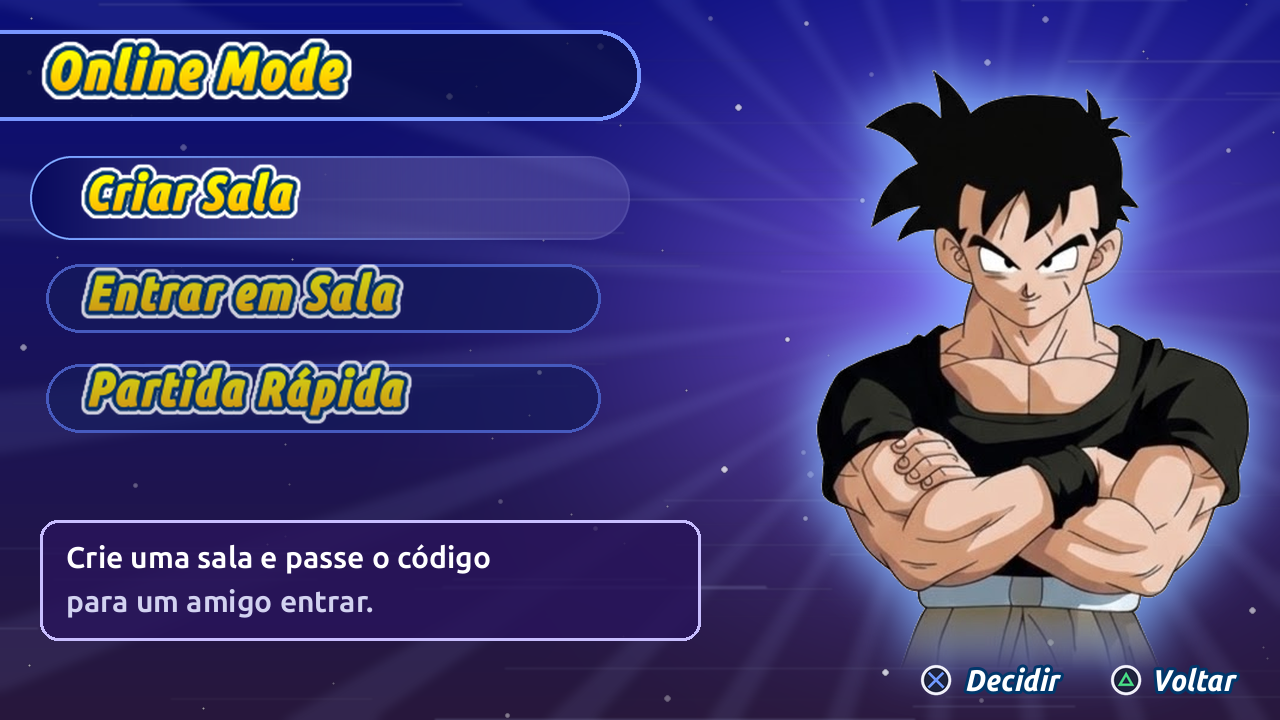
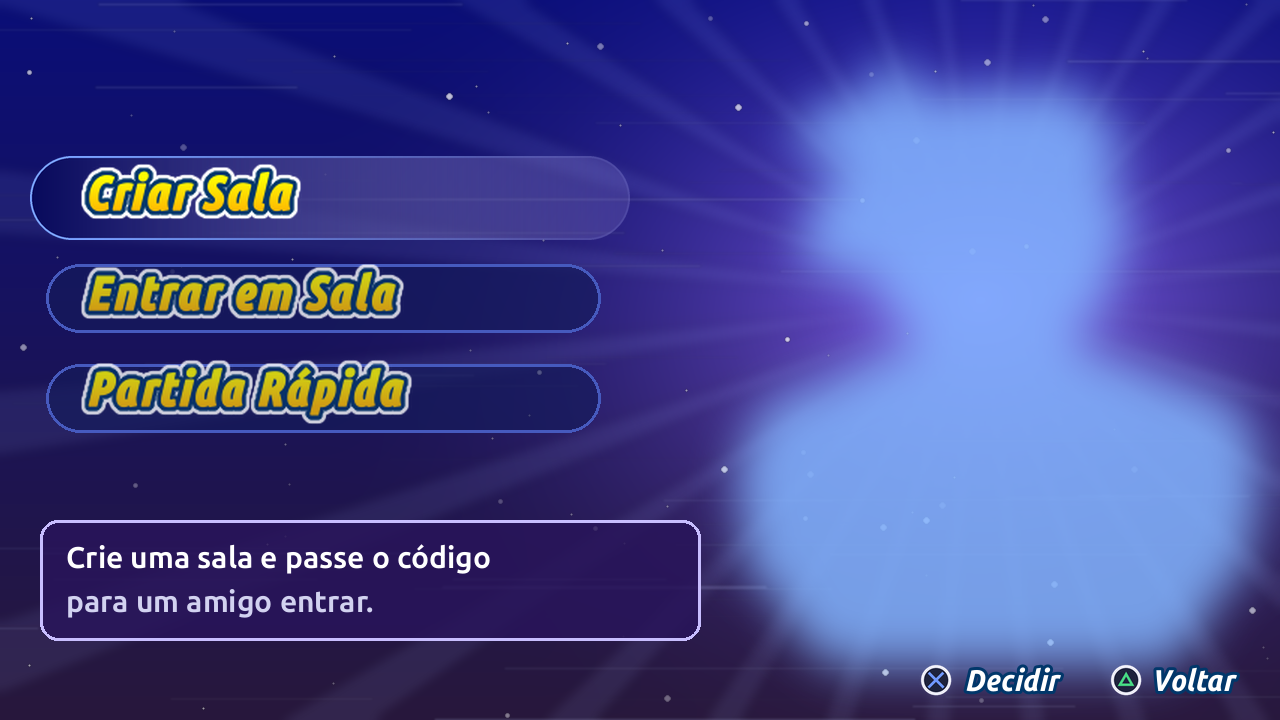
BT2 online: título que flutua, Gohan em vídeo em loop, 16 ganchos e retorno ao Modo Online
- O título "Online Mode" é uma imagem própria que o jogo desenha flutuando (title.png).
- O Gohan das telas virou um vídeo em loop: make_fighter_video.py recorta os quadros do clipe
  (GStreamer, sem som) em gohan_NN.png (61 quadros de 502 x 600, 2,4 MB em tudo) e a
  biblioteca toca o quadro do momento; as telas ficam só com o brilho atrás.
- Duelo com partida online: a 1P VS 2P acesa e as outras três apagadas pelo próprio jogo
  (a chamada de brilho do menu é interceptada); a saída do menu de Duelo faz o que o △ faz por
  dentro, então o retorno ao Modo Online é imediato depois da mensagem preta.
- O motor passa de 8 para 16 ganchos (um motor antigo ignora os extras).
- Pasta "extra" do usuário para testar imagens sem refazer o APK; gatilhos de desenvolvimento.

Claude-Session: https://claude.ai/code/session_014s1e4MkJ4JzWMAZ4AVsoPw

diff --git a/bt2/plugin/online/online_plugin.cpp b/bt2/plugin/online/online_plugin.cpp
@@ -8,6 +8,8 @@
 #include <cstring>
 #include <algorithm>
 #include <filesystem>
+#include <chrono>
+#include <cmath>
 #include <fstream>
 #include <sstream>
 #include <functional>
@@ -79,7 +81,7 @@ void returnTo(Guest& g,std::uint32_t ra) {
     H->ret(g.runtime,g.c,ra,g.self);
 }
 
-constexpr int slot_init=0,slot_menu_mode=1,slot_guides=2,slot_moved=3,slot_pad=4,slot_draw=5,slot_frame_pad=6,slot_pad_connected=7; // (the engine's names for what it replaced)
+constexpr int slot_init=0,slot_menu_mode=1,slot_guides=2,slot_moved=3,slot_pad=4,slot_draw=5,slot_frame_pad=6,slot_pad_connected=7,slot_brightness=8,slot_duel_pad=9; // (the engine's names for what it replaced)
 std::uint32_t plate_entry=0; // the texture entry of the third sheet of plates, given 256 lines
 
 // The third sheet of plates (512 x 128: items 8 and 9) is drawn as 512 x 256, so a third row (lines 128 to 191)
@@ -222,6 +224,7 @@ constexpr std::uint32_t duel_mode=30;
 // the answer is "there" (padConnected), and the three other entries are dimmed over the frame (pluginOverlay).
 constexpr std::uint32_t duel_state_pointer=0x42BB84,duel_moved=0x41B648,pad_connected=0x28C4B8;
 std::atomic<bool> dim_others{false};
+constexpr std::uint32_t brightness=0x26EF88; // (layer, parameters, f12 = the entry's brightness: the draw of Dueling's menu gives 1.0, or 0.4 to a dimmed "1P VS 2P")
 std::uint32_t modeToTry() {
     std::ifstream in(onlinePath("online_mode_test"),std::ios::binary);
     int n=0;
@@ -356,8 +359,8 @@ void leaveSession(bool opponent_gone) {
     if(!session)return;
     if(!opponent_gone)link.sayBye();
     link.close();
-    session=false;duel_lock=false;
-    if(opponent_gone)left_cover.store(200);
+    session=false;duel_lock=false;dim_others.store(false);
+    if(opponent_gone)left_cover.store(900); // (kept until the Online screen is open again, 15 seconds at most)
     returning=true;return_frames=0;screen_next=true;
     std::fprintf(stderr,"Online Mode: the match ends (%s)\n",opponent_gone?"the opponent left or was lost":"the player left");
 }
@@ -428,10 +431,6 @@ void framePad(std::uint8_t* rdram,R5900Context* c,PS2Runtime* runtime) {
     if(returning) { // triangle every twenty fields until the game is at the main menu's mode (where the Online screen opens: screen_next)
         if(mode==main_menu_mode || return_frames>900)returning=false;
         else {
-            if(return_frames%20==10) {
-                write32(rdram,pad+0x144,read32(rdram,pad+0x144)|0x1000);
-                write32(rdram,pad+0x134,read32(rdram,pad+0x134)|0x1000);
-            }
             ++return_frames;
         }
     }
@@ -454,6 +453,42 @@ void padConnected(std::uint8_t* rdram,R5900Context* c,PS2Runtime* runtime) {
         return;
     }
     H->call_original(runtime,c,slot_pad_connected);
+}
+
+// Dueling's menu draws its four entries one after the other, each with a call giving its brightness: while an opponent is connected the game itself is
+// told to dim the three that are not open, as it dims "1P VS 2P" when there is no second controller.
+void brightnessHook(std::uint8_t* rdram,R5900Context* c,PS2Runtime* runtime) {
+    static unsigned entry=0;
+    const std::uint32_t ra=static_cast<std::uint32_t>(c->r[31].low);
+    static unsigned logged=0;
+    if(logged<16 && dim_others.load() && ra>=0x41A988 && ra<0x41BF08) {++logged;std::fprintf(stderr,"Online Mode: brightness from 0x%X, %.2f (entry counter %u)\n",ra,double(c->f[12]),0u);}
+    if(ra>=0x41B300 && ra<0x41B340) { // (from the entries' loop of the menu's draw)
+        const unsigned which=entry++&3;
+        if(dim_others.load(std::memory_order_relaxed) && which!=1)c->f[12]=0.02f; // (the other three are not shown: a brightness of nothing)
+    }
+    H->call_original(runtime,c,slot_brightness);
+}
+
+// Dueling's menu, while the game is being taken back to the Online screen: what its triangle does inside (the fade out, and the "going on" word
+// its caller passes set to zero), done once the menu's layers are still, instead of pressing the button.
+constexpr std::uint32_t duel_pad=0x41B7D8,layer_still_check=0x26EB60;
+void duelPad(std::uint8_t* rdram,R5900Context* c,PS2Runtime* runtime) {
+    const std::uint32_t ra=static_cast<std::uint32_t>(c->r[31].low),going_on=static_cast<std::uint32_t>(c->r[4].low);
+    const std::uint32_t state=read32(rdram,duel_state_pointer);
+    if(returning && !session && going_on && state>0x100000 && state<0x1FFFF00) {
+        Guest g{rdram,c,runtime,duel_pad};
+        if(g.call(layer_still_check,{state+0x38})) {
+            g.call(leave_fade,{0,0,0});
+            write32(rdram,going_on,0);
+            g.call(sound,{0,2,0x40,0x40,1});
+            returning=false;
+            std::fprintf(stderr,"Online Mode: out of Dueling's menu, back to the Online screen\n");
+            returnTo(g,ra);
+            return;
+        }
+        setRegister(c,31,ra);
+    }
+    H->call_original(runtime,c,slot_duel_pad);
 }
 
 void menuMode(std::uint8_t* rdram,R5900Context* c,PS2Runtime* runtime) {
@@ -579,11 +614,20 @@ void drawMenu(std::uint8_t* rdram,R5900Context* c,PS2Runtime* runtime) {
 // the menu's description of the item. The plate itself is the game's own Dueling plate, made into this one while the menu
 // is set up (buildPlate), so no picture of the game's is kept anywhere. The two sheets they go into are known by the
 // FNV-1a hash of their first 128 lines as the renderer decodes them (the USA disc's).
-enum Slot {online_picture,ranked_picture,soon_picture,description_picture,create_picture,join_picture,quick_picture,wait_picture,left_picture,shade_picture,pictures};
+enum Slot {online_picture,ranked_picture,soon_picture,description_picture,create_picture,join_picture,quick_picture,wait_picture,left_picture,shade_picture,title_picture,gohan_picture,pictures};
 struct Picture {std::uint32_t w=0,h=0;std::vector<std::uint8_t> rgba;};
 std::array<Picture,pictures> picture;
-constexpr std::array<const char*,pictures> picture_names{"online","ranked","soon","description","rooms_create","rooms_join","rooms_quick","wait","left","shade"};
+constexpr std::array<const char*,pictures> picture_names{"online","ranked","soon","description","rooms_create","rooms_join","rooms_quick","wait","left","shade","title","gohan_00"};
 Picture name_picture,plate_word;
+// The fighter of the Online screens is a looping clip: gohan_00.png, gohan_01.png ... in the pictures' folder and gohan.txt ("frames fps width height",
+// make_fighter_video.py). Its slot is drawn like the others, but its pixels are the frame of the moment, read from its file when asked for.
+struct Clip {std::uint32_t frames=0,fps=12,w=0,h=0;std::string folder;} clip;
+std::atomic<std::uint32_t> clip_frame{0};
+std::uint32_t clipNow() {
+    if(!clip.frames)return 0;
+    const auto ms=std::chrono::duration_cast<std::chrono::milliseconds>(std::chrono::steady_clock::now().time_since_epoch()).count();
+    return static_cast<std::uint32_t>((ms*clip.fps/1000)%clip.frames);
+}
 std::vector<std::uint8_t> plate_row; // the plate: 512 x 64 RGBA
 constexpr std::uint64_t names_sheet_hash=0x838260d6bb66161aull,plates_sheet_hash=0x9cb5f2297eb6c82eull;
 std::atomic<bool> art_ready{false},plate_ready{false};
@@ -667,6 +711,17 @@ void buildPlate(std::uint8_t* rdram,std::uint32_t entry) {
 }
 
 static std::uint32_t* pluginPixels(std::uint32_t slot,std::uint32_t* version,std::uint32_t* w,std::uint32_t* h) {
+    if(slot==gohan_picture && clip.frames) { // the clip's frame of this moment
+        const std::uint32_t frame=clip_frame.load(std::memory_order_relaxed);
+        char name[32];std::snprintf(name,sizeof name,"/gohan_%02u.png",frame);
+        const Picture p=loadPicture(clip.folder+name);
+        if(p.rgba.empty())return nullptr;
+        auto* px=static_cast<std::uint32_t*>(std::malloc(p.rgba.size()));
+        if(!px)return nullptr;
+        std::memcpy(px,p.rgba.data(),p.rgba.size());
+        *version=1+frame;*w=p.w;*h=p.h;
+        return px;
+    }
     if(slot>=pictures || picture[slot].rgba.empty())return nullptr;
     auto* px=static_cast<std::uint32_t*>(std::malloc(picture[slot].rgba.size()));
     if(!px)return nullptr;
@@ -676,7 +731,10 @@ static std::uint32_t* pluginPixels(std::uint32_t slot,std::uint32_t* version,std
 }
 // Which page of the Online Mode screen is open (0 none), for the app's pieces over the game (android_main.cpp: the engine's counts).
 static int pluginOnlineState() {return online_state.load(std::memory_order_relaxed);}
-static std::uint32_t pluginVersion(std::uint32_t slot) {return slot<pictures && !picture[slot].rgba.empty()?1:0;}
+static std::uint32_t pluginVersion(std::uint32_t slot) {
+    if(slot==gohan_picture && clip.frames)return 1+clip_frame.load(std::memory_order_relaxed);
+    return slot<pictures && !picture[slot].rgba.empty()?1:0;
+}
 
 // At each flip, over the frame the game drew: the screen when it is open, else the item's description while the menu
 // shows it. Positions in the frame's own pixels (the game's 640 x 448).
@@ -698,6 +756,16 @@ static void pluginOverlay(std::uint64_t dispfb,std::uint64_t display) {
     };
     if(screen.open) {
         draw(screen.wait?wait_picture:screen.page?Slot(create_picture+screen.choice):screen.choice?ranked_picture:online_picture,0,0,float(width),float(height),screen.fade);
+        if(clip.frames) { // the fighter, where the still one stood (1280 x 720 screen: 30 from the right, 50 above the bottom)
+            clip_frame.store(clipNow(),std::memory_order_relaxed);
+            const float x0=(1280.0f-float(clip.w)-30.0f)/1280.0f*float(width),y0=(720.0f-float(clip.h)-50.0f)/720.0f*float(height);
+            H->overlay_sprite(fbp,fbw,psm,width,height,gohan_picture,x0,y0,x0+float(clip.w)/1280.0f*float(width),y0+float(clip.h)/720.0f*float(height),screen.fade);
+            if(shown!=fbp)H->overlay_sprite(shown,fbw,psm,width,height,gohan_picture,x0,y0,x0+float(clip.w)/1280.0f*float(width),y0+float(clip.h)/720.0f*float(height),screen.fade);
+        }
+        {   // the title floats: up and down a few pixels, slowly (it is drawn apart from the background, at (0, 20) of the 1280 x 720 screen)
+            const float bob=std::sin(float(flip)*0.05f)*7.0f/720.0f*float(height);
+            draw(title_picture,0,20.0f/720.0f*float(height)+bob,700.0f/1280.0f*float(width),140.0f/720.0f*float(height)+bob,screen.fade);
+        }
         if(screen.soon) {
             // (a pixel of the frame is shown wider than tall with the widescreen patch: the picture keeps its shape)
             static const bool wide=[]{const char* p=std::getenv("BT2_GAME_PATCHES");return p && std::strstr(p,"widescreen");}();
@@ -713,10 +781,7 @@ static void pluginOverlay(std::uint64_t dispfb,std::uint64_t display) {
         else if(cover_menu_seen.load())cover.store(0);
         if(cover.load()>0) {cover.fetch_sub(1);draw(wait_picture,0,0,float(width),float(height),128);}
     }
-    if(dim_others.load(std::memory_order_relaxed)) { // the three other entries of Dueling's menu dimmed (the rows are where the menu draws them: measured on the frame)
-        const float rows[3]={0.217f,0.398f,0.48f};
-        for(const float y:rows)draw(shade_picture,0.03f*float(width),(y-0.04f)*float(height),0.60f*float(width),(y+0.04f)*float(height),78);
-    }
+    if(screen.open && left_cover.load()>0 && left_cover.load()<=720)left_cover.store(0); // (the Online screen is back, and the message has been up three seconds: it goes)
     if(left_cover.load()>0) {left_cover.fetch_sub(1);draw(left_picture,0,0,float(width),float(height),128);} // (the opponent left: black, with the message)
 }
 
@@ -748,10 +813,16 @@ extern "C" __attribute__((visibility("default"))) const Bt2Plugin* bt2_plugin_in
     const std::string folder=host->pictures_dir;
     name_picture=loadPicture(folder+"/item_text.png");
     plate_word=loadPicture(folder+"/plate_text.png");
+    for(const std::string& dir:{std::string(H->online_dir?H->online_dir:"")+"/extra",folder}) { // the clip: its folder is where gohan.txt is
+        std::ifstream info(dir+"/gohan.txt");
+        std::uint32_t frames=0,fps=0,w=0,h=0;
+        if(info && (info>>frames>>fps>>w>>h) && frames && fps && w && h) {clip={frames,fps,w,h,dir};break;}
+    }
     for(std::size_t k=0;k<pictures;++k) {
-        picture[k]=loadPicture(folder+"/"+picture_names[k]+".png");
-        // (a picture not in the APK yet: the folder "extra" of the user folder, which the app leaves alone, for tries)
-        if(picture[k].rgba.empty())picture[k]=loadPicture(std::string(H->online_dir?H->online_dir:"")+"/extra/"+picture_names[k]+".png");
+        if(k==gohan_picture)continue;
+        // (for tries, a picture in the folder "extra" of the user folder, which the app leaves alone, goes before the APK's)
+        picture[k]=loadPicture(std::string(H->online_dir?H->online_dir:"")+"/extra/"+picture_names[k]+".png");
+        if(picture[k].rgba.empty())picture[k]=loadPicture(folder+"/"+picture_names[k]+".png");
     }
     if(name_picture.w!=512 || name_picture.h!=64 || plate_word.w!=512 || plate_word.h!=64) {
         std::fprintf(stderr,"Main menu item: no pictures in %s, the menu stays the game's\n",folder.c_str());
@@ -766,6 +837,8 @@ extern "C" __attribute__((visibility("default"))) const Bt2Plugin* bt2_plugin_in
     H->hook(menu_mode,menuMode,slot_menu_mode);
     H->hook(frame_pad,framePad,slot_frame_pad);
     H->hook(pad_connected,padConnected,slot_pad_connected);
+    H->hook(brightness,brightnessHook,slot_brightness);
+    H->hook(duel_pad,duelPad,slot_duel_pad);
     disc_image=host->disc_image;
     H->set_music_mix(pluginMix);
     std::fprintf(stderr,"Main menu item: Online Mode, the main menu's eleventh item\n");

diff --git a/bt2/tools/menu_item/make_fighter_video.py b/bt2/tools/menu_item/make_fighter_video.py
@@ -1,0 +1,101 @@
+#!/usr/bin/env python3
+"""The fighter of the Online Mode screens as a looping video: a clip of a figure on a white background becomes a row of cut-out pictures.
+
+    python3 bt2/tools/menu_item/make_fighter_video.py <clip.mp4> [--out <folder>] [--fps 12]
+
+Needs GStreamer (gst-launch-1.0 with the usual decoders) to read the clip; its sound is not used. Writes into the screens' folder
+(default android/app/src/main/assets/bt2/menu-item): gohan_00.png, gohan_01.png, ... (the figure from the top down to the belt, a soft end,
+the white background and anything else that is not the figure taken out, 8-bit palette so a frame is a few tens of KB) and gohan.txt
+("frames fps width height", the numbers the game reads), and bust.png (the first frame, for make_menu_item.py --bust --animated, which
+draws the screens' glow behind it but not the figure: the game draws the frames over them).
+"""
+import argparse
+import pathlib
+import subprocess
+import sys
+import tempfile
+
+import numpy as np
+from PIL import Image
+from scipy import ndimage
+
+ROOT = pathlib.Path(__file__).resolve().parents[3]
+HEIGHT = 600            # the figure's height in the 1280 x 720 screen (the same as the still picture had)
+BELT = 0.66             # where the figure ends, as a part of the clip's height (the belt); a soft end of FADE rows follows up to it
+FADE = 28
+
+
+def decode(clip, fps, folder):
+    """The clip's frames as PNG at `fps`, scaled so the figure down to the belt is about HEIGHT tall."""
+    probe = subprocess.run(["gst-discoverer-1.0", str(clip)], capture_output=True, text=True).stdout
+    width = height = 0
+    for line in probe.splitlines():
+        line = line.strip()
+        if line.startswith("Width:"): width = int(line.split()[1])
+        if line.startswith("Height:"): height = int(line.split()[1])
+    if not width or not height:
+        sys.exit("cannot read the clip's size (is GStreamer installed?)")
+    scale = HEIGHT / (height * BELT)
+    w, h = int(width * scale) // 2 * 2, int(height * scale) // 2 * 2
+    subprocess.run(["gst-launch-1.0", "-q", "filesrc", f"location={clip}", "!", "decodebin", "!", "videoconvert", "!", "videorate", "!",
+                    f"video/x-raw,framerate={fps}/1", "!", "videoscale", "!", f"video/x-raw,width={w},height={h}", "!", "pngenc", "!",
+                    "multifilesink", f"location={folder}/f_%03d.png"], check=True)
+    return sorted(folder.glob("f_*.png"))
+
+
+def cut(path):
+    """The figure of one frame as RGBA: the white that touches the border is the background, the largest piece left is the figure
+    (so the marks in the corners go with the background); the edge is soft; the figure ends at the belt with a soft end."""
+    a = np.asarray(Image.open(path).convert("RGB")).astype(np.int32)
+    h, w = a.shape[:2]
+    white = (a > 225).all(axis=2)
+    lab, _ = ndimage.label(white)
+    border = np.unique(np.concatenate([lab[0], lab[-1], lab[:, 0], lab[:, -1]]))
+    bg = np.isin(lab, border[border > 0])
+    fg = ~bg
+    flab, n = ndimage.label(fg)
+    sizes = ndimage.sum(fg, flab, range(1, n + 1))
+    main = flab == (1 + int(np.argmax(sizes)))
+    edge = ndimage.binary_dilation(bg, iterations=1) & main
+    soft = np.clip((255 - a.min(axis=2)) * 2.2, 0, 255)
+    alpha = np.where(main, 255, 0)
+    alpha = np.where(edge, soft, alpha).astype(np.uint8)
+    belt = int(h * BELT)
+    alpha[belt:] = 0
+    for y in range(belt - FADE, belt):
+        alpha[y] = (alpha[y] * ((belt - y) / FADE)).astype(np.uint8)
+    return Image.fromarray(np.dstack([a.astype(np.uint8), alpha]), "RGBA").crop((0, 0, w, belt))
+
+
+def main():
+    ap = argparse.ArgumentParser(description=__doc__, formatter_class=argparse.RawDescriptionHelpFormatter)
+    ap.add_argument("clip", type=pathlib.Path)
+    ap.add_argument("--out", type=pathlib.Path, default=ROOT / "android/app/src/main/assets/bt2/menu-item")
+    ap.add_argument("--fps", type=int, default=12)
+    args = ap.parse_args()
+    args.out.mkdir(parents=True, exist_ok=True)
+    with tempfile.TemporaryDirectory() as tmp:
+        frames = [cut(p) for p in decode(args.clip, args.fps, pathlib.Path(tmp))]
+    # one box for all the frames, so the figure does not jump from frame to frame
+    box = None
+    for f in frames:
+        b = f.getchannel("A").point(lambda v: 255 if v > 8 else 0).getbbox()
+        box = b if box is None else (min(box[0], b[0]), min(box[1], b[1]), max(box[2], b[2]), max(box[3], b[3]))
+    frames = [f.crop(box) for f in frames]
+    sw = round(frames[0].width * HEIGHT / frames[0].height)
+    frames = [f.resize((sw, HEIGHT), Image.LANCZOS) for f in frames]
+    for old in args.out.glob("gohan_*.png"):
+        old.unlink()
+    total = 0
+    for i, f in enumerate(frames):
+        small = f.quantize(colors=160, method=Image.Quantize.FASTOCTREE, dither=Image.Dither.NONE)
+        path = args.out / f"gohan_{i:02d}.png"
+        small.save(path, optimize=True)
+        total += path.stat().st_size
+    (args.out / "gohan.txt").write_text(f"{len(frames)} {args.fps} {sw} {HEIGHT}\n")
+    frames[0].save(args.out.parent.parent / "bust_video.png") if False else frames[0].save(args.out / "bust.png")
+    print(f"{len(frames)} frames of {sw} x {HEIGHT}, {total // 1024} KB in all")
+
+
+if __name__ == "__main__":
+    main()

diff --git a/bt2/tools/menu_item/make_menu_item.py b/bt2/tools/menu_item/make_menu_item.py
@@ -194,15 +194,19 @@ def background(title):
         x, y, r = random.randint(0, W), random.randint(0, H), random.choice((1, 1, 2, 3))
         sd.ellipse([x - r, y - r, x + r, y + r], fill=(255, 255, 255, random.randint(60, 200)))
     bg.alpha_composite(sp.filter(ImageFilter.GaussianBlur(0.6)))
-    band = Image.new("RGBA", (W, H), (0, 0, 0, 0))
-    ImageDraw.Draw(band).rounded_rectangle([-40, 30, 640, 120], radius=44, fill=(10, 14, 70, 200), outline=(120, 150, 255, 255), width=4)
-    bg.alpha_composite(band)
+    return bg  # (the title band is its own picture, title_sprite: the game moves it)
+
+
+def title_sprite(title):
+    """The band with the screen's title, on its own (transparent around it), 700 x 120, to be drawn at (0, 20) of the 1280 x 720 screen and made to float."""
+    im = Image.new("RGBA", (700, 120), (0, 0, 0, 0))
+    ImageDraw.Draw(im).rounded_rectangle([-40, 10, 640, 100], radius=44, fill=(10, 14, 70, 200), outline=(120, 150, 255, 255), width=4)
     t = title.resize((int(title.width * 1.7), int(title.height * 1.7)), Image.LANCZOS)
-    bg.alpha_composite(t, (20, 20))
-    return bg
+    im.alpha_composite(t, (20, 0))
+    return im
 
 
-def add_fighter(bg, bust):
+def add_fighter(bg, bust, draw_figure=True):
     W, H = SCREEN
     k = 600 / bust.height
     ch = bust.resize((int(bust.width * k), 600), Image.LANCZOS)
@@ -213,7 +217,8 @@ def add_fighter(bg, bust):
     glow = Image.new("RGBA", (W, H), (130, 180, 255, 0))
     glow.putalpha(m.point(lambda v: int(v * 0.85)))
     bg.alpha_composite(glow)
-    bg.alpha_composite(ch, (cx, cy))
+    if draw_figure:
+        bg.alpha_composite(ch, (cx, cy))   # (an animated fighter is drawn by the game over the screen: make_fighter_video.py)
 
 
 DESCRIPTIONS = [("Lute contra outros jogadores pela internet.", "Salas com código e partidas rápidas."),
@@ -346,6 +351,7 @@ def main():
     ap = argparse.ArgumentParser(description=__doc__, formatter_class=argparse.RawDescriptionHelpFormatter)
     ap.add_argument("--bust", type=pathlib.Path, help="the fighter, already cut out (RGBA, from the waist up)")
     ap.add_argument("--fighter", type=pathlib.Path, help="the fighter's full-length picture on a white background")
+    ap.add_argument("--animated", action="store_true", help="the fighter is a looping clip the game draws: only its glow goes into the screens")
     ap.add_argument("--out", type=pathlib.Path, default=ROOT / "android/app/src/main/assets/bt2/menu-item")
     ap.add_argument("--font-italic", default=FONT_ITALIC)
     ap.add_argument("--font-sans", default=FONT_SANS)
@@ -364,7 +370,7 @@ def main():
     labels = [lettering("Online"), lettering("Ranqueado")]
     rooms = [lettering("Criar Sala"), lettering("Entrar em Sala"), lettering("Partida Rápida")]
     bg = background(name)
-    add_fighter(bg, bust)
+    add_fighter(bg, bust, draw_figure=not args.animated)
     hint = hints()
     pictures = {
         "item_text": name,                                                         # the chosen item's name (a row of the sheet of names)
@@ -379,6 +385,7 @@ def main():
         "wait": screen(0, bg, [], hint, window=False),
         "soon": soon(lettering("Em breve!")),
         "left": left(),
+        "title": title_sprite(name),
         "shade": Image.new("RGBA", (16, 16), (0, 0, 0, 255)),  # dims the entries of Dueling's menu that are not open while an opponent is connected
         "description": description(),
     }

diff --git a/bt2/plugin/bt2_plugin.h b/bt2/plugin/bt2_plugin.h
@@ -36,7 +36,7 @@ typedef struct Bt2HostApi {
     const char *pictures_dir;        /* the library's pictures (the app's assets, copied: <root>/bt2/user/menu-item) */
     const char *online_dir;          /* <root>/bt2/user: where the app and the library leave each other files */
 
-    /* Takes over a game function: `fn` runs in its place. `slot` (0 to 7) names it for call_original. */
+    /* Takes over a game function: `fn` runs in its place. `slot` (0 to 15; an engine of an earlier version has 8: the others are ignored) names it for call_original. */
     void (*hook)(uint32_t address, Bt2Hook fn, int slot);
     /* The function a slot replaced, run as it was. */
     void (*call_original)(Bt2Call *call, Bt2Regs *regs, int slot);

diff --git a/bt2/runtime/plugin/plugin_host.cpp b/bt2/runtime/plugin/plugin_host.cpp
@@ -16,7 +16,7 @@ struct Bt2Call {
 };
 
 namespace {
-constexpr int slots = 8;
+constexpr int slots = 16;
 EeRuntime* engine = nullptr;
 std::atomic<const Bt2Plugin*> plugin{nullptr};
 Bt2Hook hooks[slots] = {};

diff --git a/bt2/docs/plans/online/ONLINE_PLAN.md b/bt2/docs/plans/online/ONLINE_PLAN.md
@@ -139,3 +139,14 @@ like the main menu's), the second pad, the exchange of buttons, the shared seed 
   the Dueling menu, the selection loads for the other one with "Aguardando Oponente" written at the bottom (each side waits, the line tells who has
   pressed). Needs: a message "I pressed 1P VS 2P" over the line, the second pad (port 1) fed with the other phone's buttons, the exchange of buttons per
   field once both are in, and the waiting text drawn over the selection (a picture, like the others).
+
+## The Online Mode screens: the title and the fighter (2026-10-26)
+
+- The title band ("Online Mode") is its own picture (title.png) that the plugin draws floating (a slow sine of a few pixels), over the screens' pictures.
+- The fighter is a looping clip, not a still: `bt2/tools/menu_item/make_fighter_video.py <clip.mp4>` cuts the clip's frames (GStreamer; the sound is not used) into
+  gohan_NN.png (8-bit palette, a few tens of KB each) and gohan.txt ("frames fps width height"); `make_menu_item.py --bust <first frame> --animated` then draws the
+  screens with only the glow behind it. The plugin draws the frame of the moment (its slot's version changes with the frame, so the renderer takes the new pixels).
+- For tries on a phone, pictures in `<root>/bt2/user/extra/` go before the APK's (the app rewrites menu-item/ when it updates).
+- Hook slots of the engine: 16 (an engine of an earlier version has 8 and ignores the others).
+- Development triggers in the plugin (files in the user folder): online_dump (the game's memory to dump_N.bin), online_press (a button name), online_walk (a script of
+  presses), online_mode_test (the mode to go to after "Connected").
